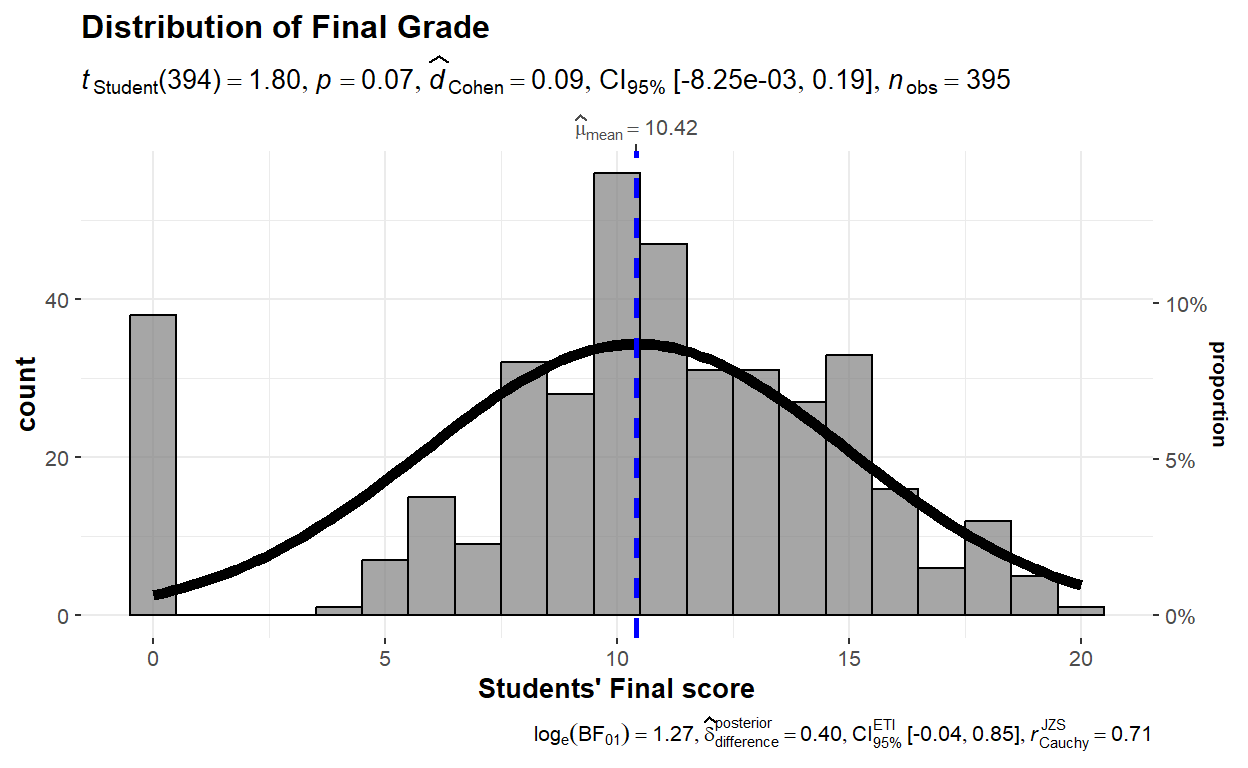
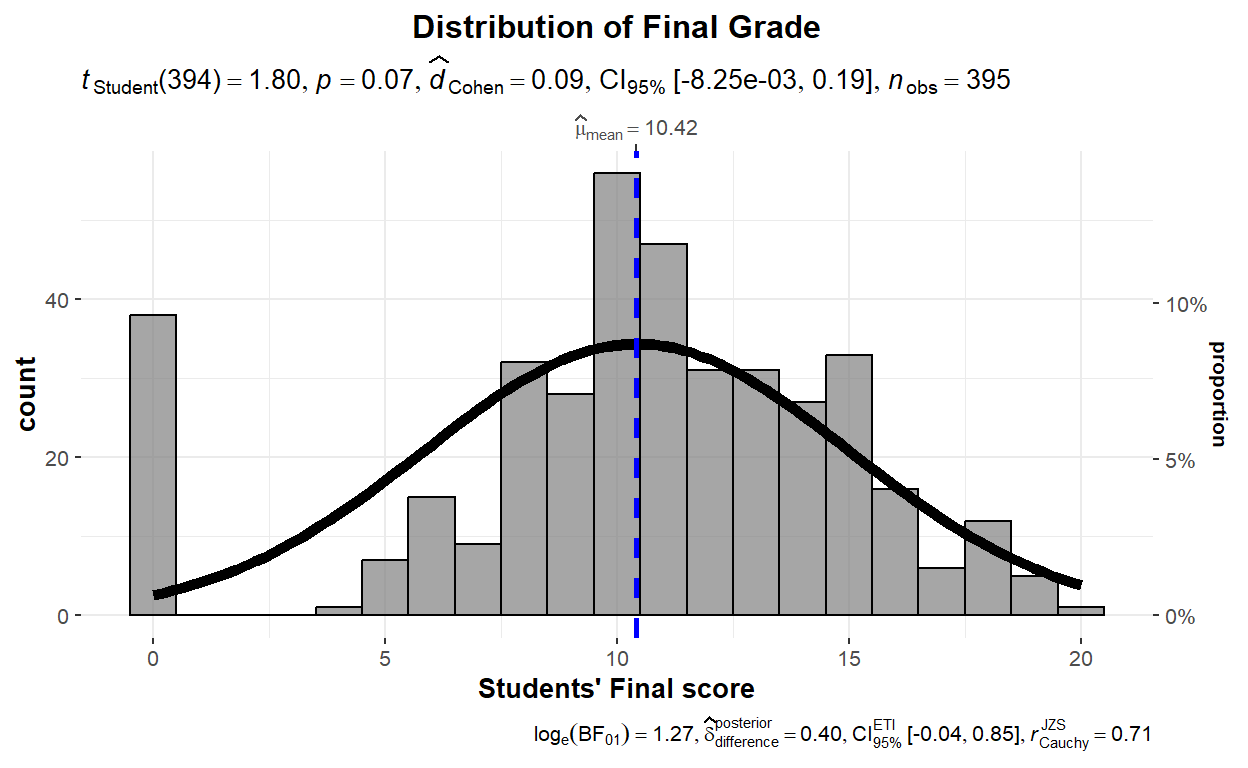
Add files via upload

Changed region(s): [[0.0625, 0.0, 0.6562, 0.0625]]

diff --git a/posts/2022-12-31-ggstat/index.html b/posts/2022-12-31-ggstat/index.html
@@ -88,7 +88,7 @@ code span.wa { color: #5e5e5e; font-style: italic; } /* Warning */
 
 
   <!--radix_placeholder_meta_tags-->
-<title>Tarid Wongvorachan: Data Exploration with ggstatplot</title>
+<title>Tarid Wongvorachan: Data Exploration with ggstatsplot</title>
 
 <meta property="description" itemprop="description" content="In this post, I will be performing and visualizing data exploration techniques such as Pearson&#39;s correlation test, Chi-square Goodness of Fit test, Chi-square Test of Independence, One-sample t-test, and Paired-sample t-test.&#10;&#10;(8 min read)"/>
 
@@ -101,7 +101,7 @@ code span.wa { color: #5e5e5e; font-style: italic; } /* Warning */
 <meta name="article:author" content="Tarid Wongvorachan"/>
 
 <!--  https://developers.facebook.com/docs/sharing/webmasters#markup -->
-<meta property="og:title" content="Tarid Wongvorachan: Data Exploration with ggstatplot"/>
+<meta property="og:title" content="Tarid Wongvorachan: Data Exploration with ggstatsplot"/>
 <meta property="og:type" content="article"/>
 <meta property="og:description" content="In this post, I will be performing and visualizing data exploration techniques such as Pearson&#39;s correlation test, Chi-square Goodness of Fit test, Chi-square Test of Independence, One-sample t-test, and Paired-sample t-test.&#10;&#10;(8 min read)"/>
 <meta property="og:url" content="https://taridwong.github.io/posts/2022-12-31-ggstat/"/>
@@ -113,7 +113,7 @@ code span.wa { color: #5e5e5e; font-style: italic; } /* Warning */
 
 <!--  https://dev.twitter.com/cards/types/summary -->
 <meta property="twitter:card" content="summary_large_image"/>
-<meta property="twitter:title" content="Tarid Wongvorachan: Data Exploration with ggstatplot"/>
+<meta property="twitter:title" content="Tarid Wongvorachan: Data Exploration with ggstatsplot"/>
 <meta property="twitter:description" content="In this post, I will be performing and visualizing data exploration techniques such as Pearson&#39;s correlation test, Chi-square Goodness of Fit test, Chi-square Test of Independence, One-sample t-test, and Paired-sample t-test.&#10;&#10;(8 min read)"/>
 <meta property="twitter:url" content="https://taridwong.github.io/posts/2022-12-31-ggstat/"/>
 <meta property="twitter:image" content="https://taridwong.github.io/posts/2022-12-31-ggstat/ggstat_files/figure-html5/unnamed-chunk-13-1.png"/>
@@ -121,7 +121,7 @@ code span.wa { color: #5e5e5e; font-style: italic; } /* Warning */
 <meta property="twitter:image:height" content="768"/>
 
 <!--  https://scholar.google.com/intl/en/scholar/inclusion.html#indexing -->
-<meta name="citation_title" content="Tarid Wongvorachan: Data Exploration with ggstatplot"/>
+<meta name="citation_title" content="Tarid Wongvorachan: Data Exploration with ggstatsplot"/>
 <meta name="citation_fulltext_html_url" content="https://taridwong.github.io/posts/2022-12-31-ggstat/"/>
 <meta name="citation_fulltext_world_readable" content=""/>
 <meta name="citation_online_date" content="2022/12/31"/>
@@ -132,7 +132,7 @@ code span.wa { color: #5e5e5e; font-style: italic; } /* Warning */
   <!--radix_placeholder_rmarkdown_metadata-->
 
 <script type="text/json" id="radix-rmarkdown-metadata">
-{"type":"list","attributes":{"names":{"type":"character","attributes":{},"value":["creative_commons","title","description","author","date","categories","output","citation_url","canonical_url"]}},"value":[{"type":"character","attributes":{},"value":["CC BY"]},{"type":"character","attributes":{},"value":["Data Exploration with ggstatplot"]},{"type":"character","attributes":{},"value":["In this post, I will be performing and visualizing data exploration techniques such as Pearson's correlation test, Chi-square Goodness of Fit test, Chi-square Test of Independence, One-sample t-test, and Paired-sample t-test.\n\n(8 min read)"]},{"type":"list","attributes":{},"value":[{"type":"list","attributes":{"names":{"type":"character","attributes":{},"value":["name","affiliation","affiliation_url"]}},"value":[{"type":"character","attributes":{},"value":["Tarid Wongvorachan"]},{"type":"character","attributes":{},"value":["University of Alberta"]},{"type":"character","attributes":{},"value":["https://www.ualberta.ca"]}]}]},{"type":"character","attributes":{},"value":["2022-12-31"]},{"type":"character","attributes":{},"value":["R","Statistics"]},{"type":"list","attributes":{"names":{"type":"character","attributes":{},"value":["distill::distill_article"]}},"value":[{"type":"list","attributes":{"names":{"type":"character","attributes":{},"value":["code_folding","toc","toc_depth","toc_float","self_contained"]}},"value":[{"type":"logical","attributes":{},"value":[true]},{"type":"logical","attributes":{},"value":[true]},{"type":"integer","attributes":{},"value":[2]},{"type":"logical","attributes":{},"value":[false]},{"type":"logical","attributes":{},"value":[false]}]}]},{"type":"character","attributes":{},"value":["https://taridwong.github.io/posts/2022-12-31-ggstat/"]},{"type":"character","attributes":{},"value":["https://taridwong.github.io/posts/2022-12-31-ggstat/"]}]}
+{"type":"list","attributes":{"names":{"type":"character","attributes":{},"value":["creative_commons","title","description","author","date","categories","output","citation_url","canonical_url"]}},"value":[{"type":"character","attributes":{},"value":["CC BY"]},{"type":"character","attributes":{},"value":["Data Exploration with ggstatsplot"]},{"type":"character","attributes":{},"value":["In this post, I will be performing and visualizing data exploration techniques such as Pearson's correlation test, Chi-square Goodness of Fit test, Chi-square Test of Independence, One-sample t-test, and Paired-sample t-test.\n\n(8 min read)"]},{"type":"list","attributes":{},"value":[{"type":"list","attributes":{"names":{"type":"character","attributes":{},"value":["name","affiliation","affiliation_url"]}},"value":[{"type":"character","attributes":{},"value":["Tarid Wongvorachan"]},{"type":"character","attributes":{},"value":["University of Alberta"]},{"type":"character","attributes":{},"value":["https://www.ualberta.ca"]}]}]},{"type":"character","attributes":{},"value":["2022-12-31"]},{"type":"character","attributes":{},"value":["R","Statistics"]},{"type":"list","attributes":{"names":{"type":"character","attributes":{},"value":["distill::distill_article"]}},"value":[{"type":"list","attributes":{"names":{"type":"character","attributes":{},"value":["code_folding","toc","toc_depth","toc_float","self_contained"]}},"value":[{"type":"logical","attributes":{},"value":[true]},{"type":"logical","attributes":{},"value":[true]},{"type":"integer","attributes":{},"value":[2]},{"type":"logical","attributes":{},"value":[false]},{"type":"logical","attributes":{},"value":[false]}]}]},{"type":"character","attributes":{},"value":["https://taridwong.github.io/posts/2022-12-31-ggstat/"]},{"type":"character","attributes":{},"value":["https://taridwong.github.io/posts/2022-12-31-ggstat/"]}]}
 </script>
 <!--/radix_placeholder_rmarkdown_metadata-->
   
@@ -2461,7 +2461,7 @@ gtag('config', 'G-N6RYE4NFCW');
 <!--radix_placeholder_front_matter-->
 
 <script id="distill-front-matter" type="text/json">
-{"title":"Data Exploration with ggstatplot","description":"In this post, I will be performing and visualizing data exploration techniques such as Pearson's correlation test, Chi-square Goodness of Fit test, Chi-square Test of Independence, One-sample t-test, and Paired-sample t-test.\n\n(8 min read)","authors":[{"author":"Tarid Wongvorachan","authorURL":"#","affiliation":"University of Alberta","affiliationURL":"https://www.ualberta.ca","orcidID":""}],"publishedDate":"2022-12-31T00:00:00.000-07:00","citationText":"Wongvorachan, 2022"}
+{"title":"Data Exploration with ggstatsplot","description":"In this post, I will be performing and visualizing data exploration techniques such as Pearson's correlation test, Chi-square Goodness of Fit test, Chi-square Test of Independence, One-sample t-test, and Paired-sample t-test.\n\n(8 min read)","authors":[{"author":"Tarid Wongvorachan","authorURL":"#","affiliation":"University of Alberta","affiliationURL":"https://www.ualberta.ca","orcidID":""}],"publishedDate":"2022-12-31T00:00:00.000-07:00","citationText":"Wongvorachan, 2022"}
 </script>
 
 <!--/radix_placeholder_front_matter-->
@@ -2490,7 +2490,7 @@ gtag('config', 'G-N6RYE4NFCW');
 <!--/radix_placeholder_site_before_body-->
 
 <div class="d-title">
-<h1>Data Exploration with ggstatplot</h1>
+<h1>Data Exploration with ggstatsplot</h1>
 <!--radix_placeholder_categories-->
 <div class="dt-tags">
   <a href="../../index.html#category:R" class="dt-tag">R</a>
@@ -2786,7 +2786,9 @@ Show code
 <span>  normal.curve <span class='op'>=</span> <span class='cn'>TRUE</span>,</span>
 <span>  binwidth <span class='op'>=</span> <span class='fl'>1</span>,                   <span class='co'># binwidth value (needs to be toyed around with until you find the best one)</span></span>
 <span>  messages <span class='op'>=</span> <span class='cn'>FALSE</span>                   <span class='co'># turn off the messages</span></span>
-<span><span class='op'>)</span> </span></code></pre>
+<span><span class='op'>)</span><span class='op'>+</span></span>
+<span>  </span>
+<span>  <span class='fu'>ggplot2</span><span class='fu'>::</span><span class='fu'><a href='https://ggplot2.tidyverse.org/reference/theme.html'>theme</a></span><span class='op'>(</span>plot.title <span class='op'>=</span> <span class='fu'><a href='https://ggplot2.tidyverse.org/reference/element.html'>element_text</a></span><span class='op'>(</span>hjust <span class='op'>=</span> <span class='fl'>0.5</span><span class='op'>)</span><span class='op'>)</span></span></code></pre>
 </div>
 </details>
 <p><img src="ggstat_files/figure-html5/unnamed-chunk-13-1.png" width="624" data-distill-preview=1 /></p>
@@ -2863,13 +2865,13 @@ Show code
     </span>
     <span class="article-sharing">
       Share: &nbsp;
-      <a href="https://twitter.com/share?text=Data%20Exploration%20with%20ggstatplot&amp;url=https%3A%2F%2Ftaridwong.github.io%2Fposts%2F2022-12-31-ggstat%2F" aria-label="share on twitter">
+      <a href="https://twitter.com/share?text=Data%20Exploration%20with%20ggstatsplot&amp;url=https%3A%2F%2Ftaridwong.github.io%2Fposts%2F2022-12-31-ggstat%2F" aria-label="share on twitter">
         <i class="fab fa-twitter" aria-hidden="true"></i>
       </a>
-      <a href="https://www.linkedin.com/shareArticle?mini=true&amp;url=https%3A%2F%2Ftaridwong.github.io%2Fposts%2F2022-12-31-ggstat%2F&amp;title=Data%20Exploration%20with%20ggstatplot" aria-label="share on linkedin">
+      <a href="https://www.linkedin.com/shareArticle?mini=true&amp;url=https%3A%2F%2Ftaridwong.github.io%2Fposts%2F2022-12-31-ggstat%2F&amp;title=Data%20Exploration%20with%20ggstatsplot" aria-label="share on linkedin">
         <i class="fab fa-linkedin" aria-hidden="true"></i>
       </a>
-      <a href="https://pinterest.com/pin/create/link/?url=https%3A%2F%2Ftaridwong.github.io%2Fposts%2F2022-12-31-ggstat%2F&amp;description=Data%20Exploration%20with%20ggstatplot" aria-label="share on pinterest">
+      <a href="https://pinterest.com/pin/create/link/?url=https%3A%2F%2Ftaridwong.github.io%2Fposts%2F2022-12-31-ggstat%2F&amp;description=Data%20Exploration%20with%20ggstatsplot" aria-label="share on pinterest">
         <i class="fab fa-pinterest" aria-hidden="true"></i>
       </a>
       <a href="https://www.facebook.com/sharer/sharer.php?s=100&amp;p[url]=https%3A%2F%2Ftaridwong.github.io%2Fposts%2F2022-12-31-ggstat%2F" aria-label="share on facebook">
@@ -2917,11 +2919,11 @@ var disqus_config = function () {
   <p>Text and figures are licensed under Creative Commons Attribution <a rel="license" href="https://creativecommons.org/licenses/by/4.0/">CC BY 4.0</a>. The figures that have been reused from other sources don't fall under this license and can be recognized by a note in their caption: "Figure from ...".</p>
   <h3 id="citation">Citation</h3>
   <p>For attribution, please cite this work as</p>
-  <pre class="citation-appendix short">Wongvorachan (2022, Dec. 31). Tarid Wongvorachan: Data Exploration with ggstatplot. Retrieved from https://taridwong.github.io/posts/2022-12-31-ggstat/</pre>
+  <pre class="citation-appendix short">Wongvorachan (2022, Dec. 31). Tarid Wongvorachan: Data Exploration with ggstatsplot. Retrieved from https://taridwong.github.io/posts/2022-12-31-ggstat/</pre>
   <p>BibTeX citation</p>
   <pre class="citation-appendix long">@misc{wongvorachan2022data,
   author = {Wongvorachan, Tarid},
-  title = {Tarid Wongvorachan: Data Exploration with ggstatplot},
+  title = {Tarid Wongvorachan: Data Exploration with ggstatsplot},
   url = {https://taridwong.github.io/posts/2022-12-31-ggstat/},
   year = {2022}
 }</pre>
